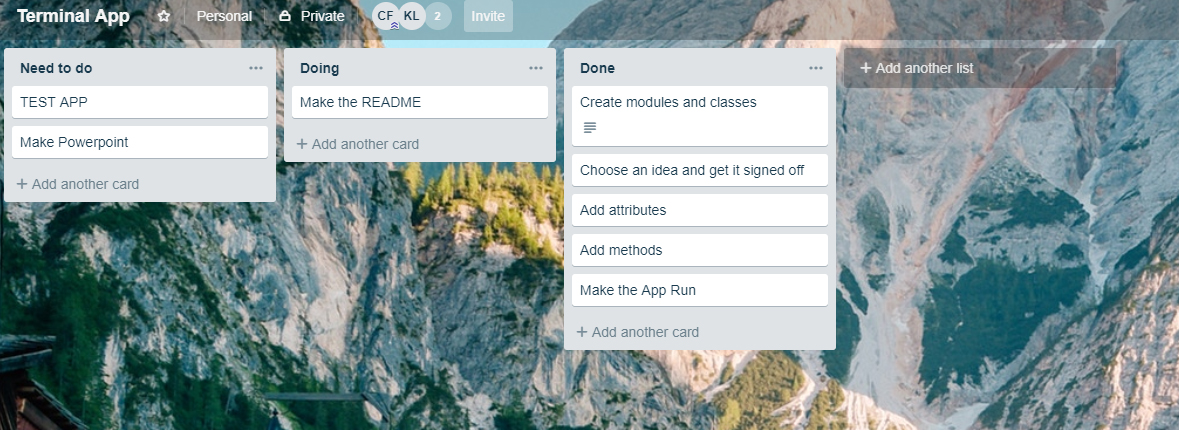
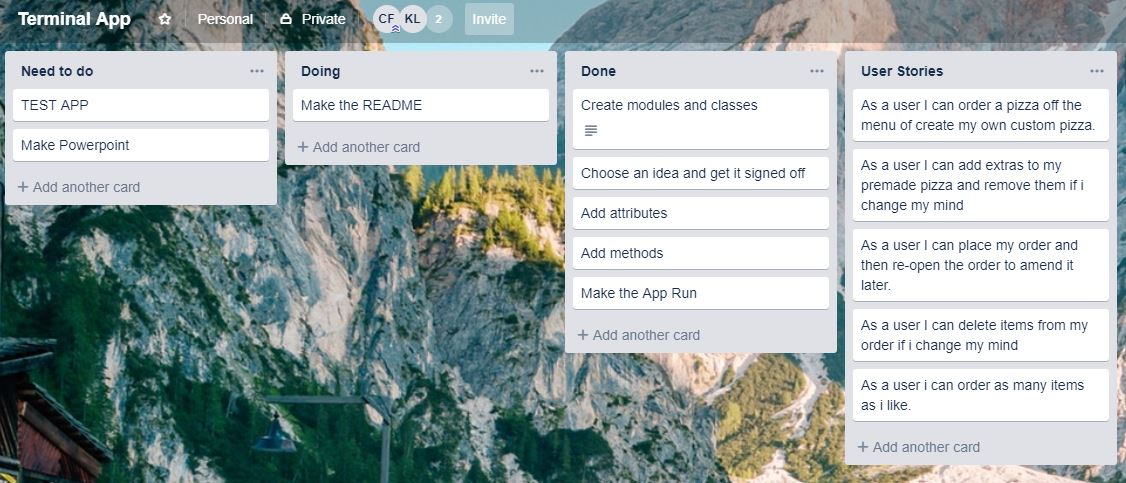
Added user stories

diff --git a/README.md b/README.md
@@ -93,10 +93,16 @@ Initial planning was carried out on paper as well as a user workflow drawn up in
 ![planning in action](./docs/paper_planning.jpg)
 
 ### Task Management
-Trello was used in a minimalist way to designate tasks and to keep us on task as we worked through  making the program.
+Trello was used in a minimalist way to designate tasks and to keep us on task as we worked through  making the program. We also added user stories to help us think like an end user and make sure the app came out with the proper functionallity.
 
 ![trello](./docs/trello.jpg)
 
+### User Stories 
+* As a user I can order a pizza off the menu of create my own custom pizza.
+* As a user I can add extras to my premade pizza and remove them if i change my mind
+* As a user I can place my order and then re-open the order to amend it later.
+* As a user I can delete items from my order if i change my mind\
+* As a user i can order as many items as i like.
 ### User Journey/Workflow
 A workflow was drawn up to help us know exactly how the app would run which made it alot easier to then make the program:
 ![pizza_cake_workflow](./docs/app_workflow_diagram.jpg)
